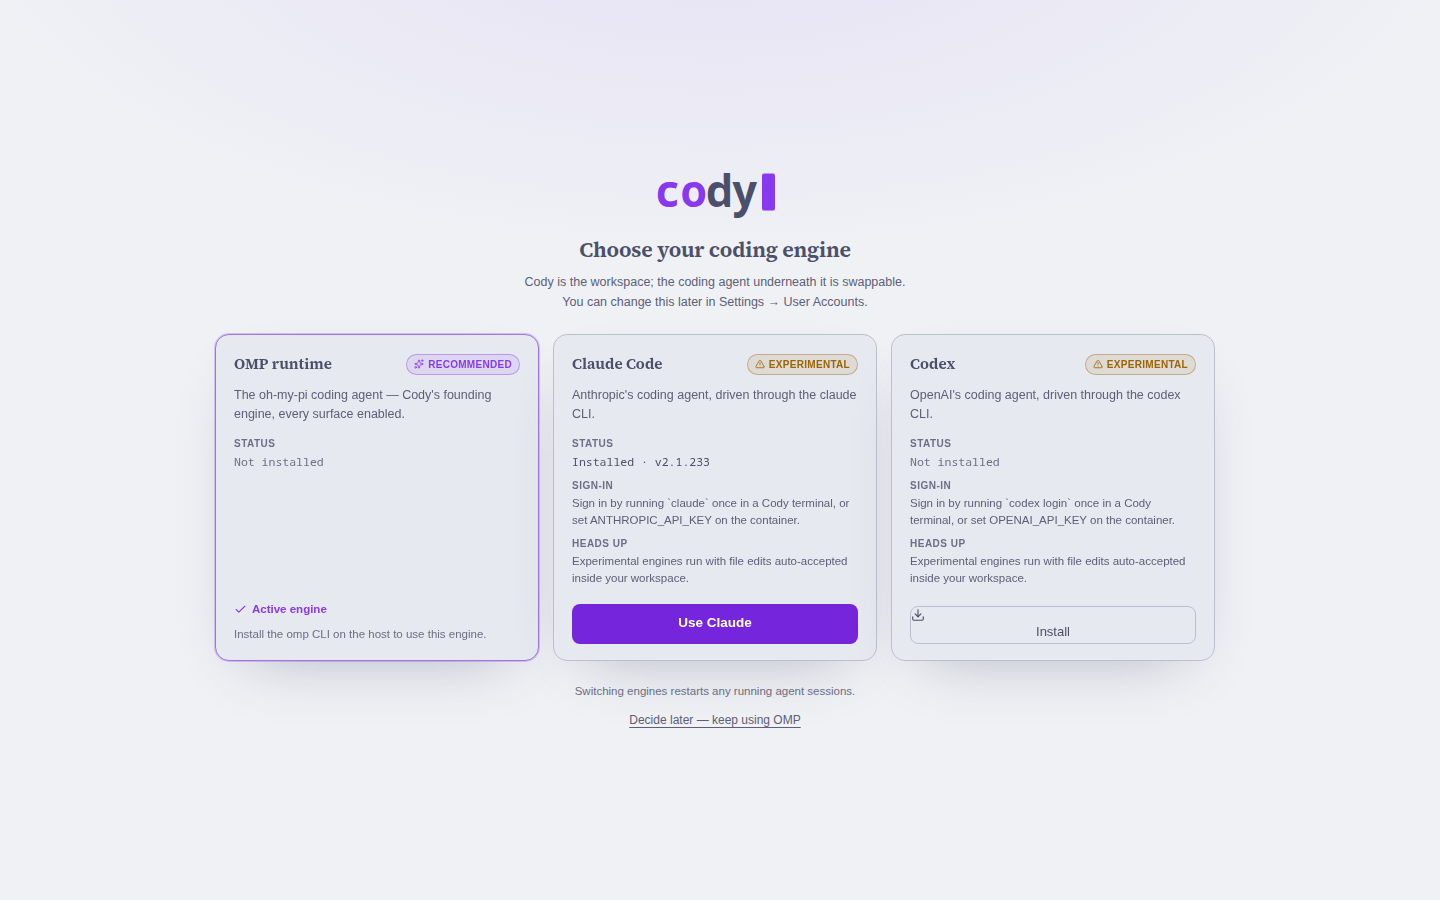
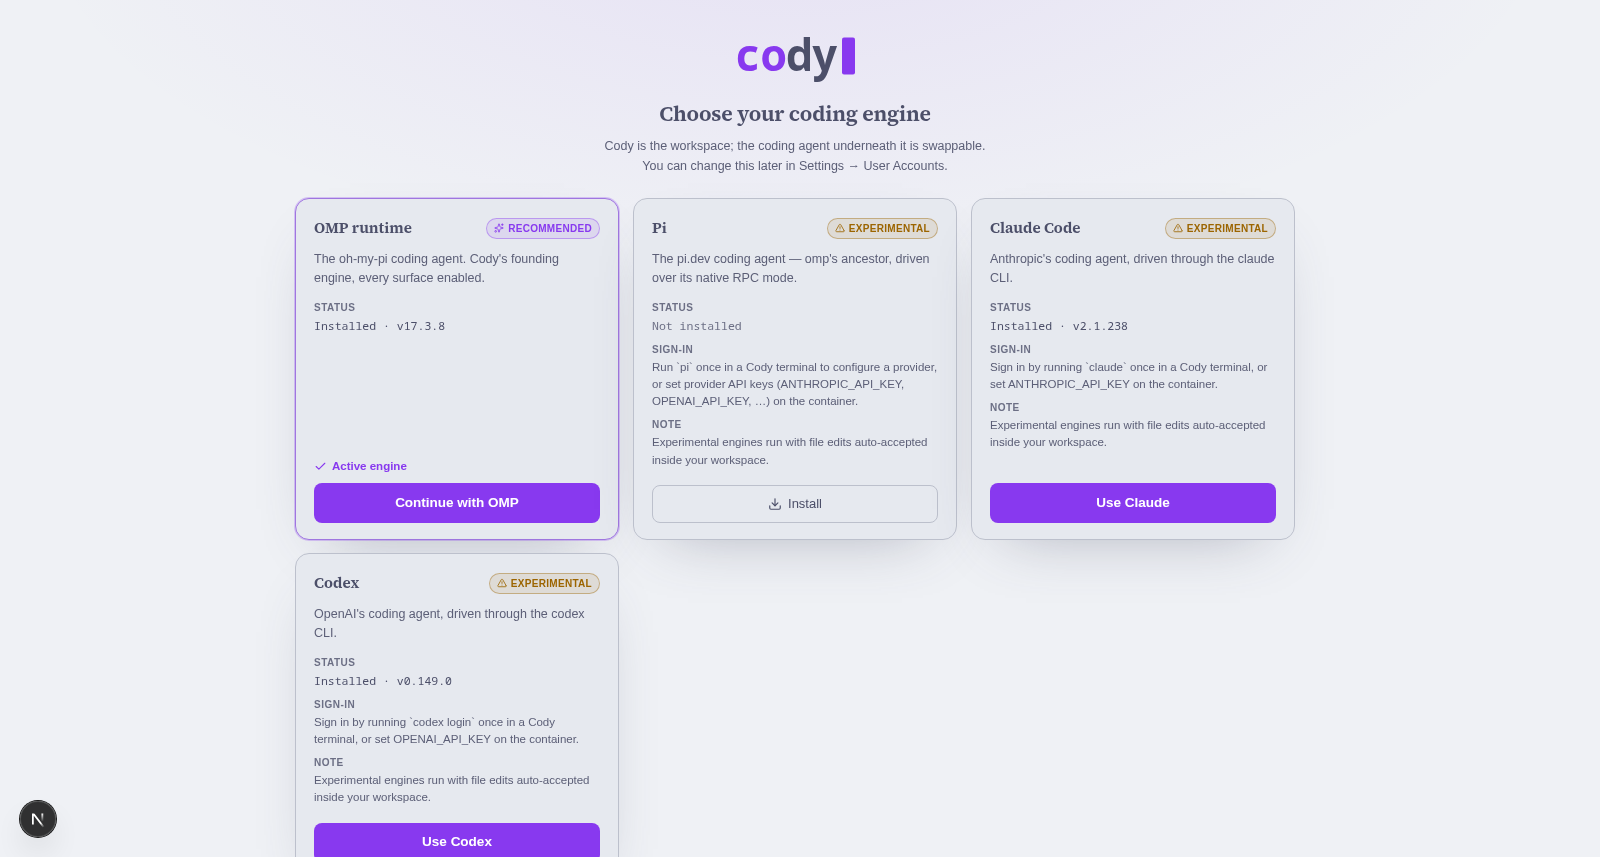
Refresh the README and screenshots for the current engine roster
Pi (pi.dev) joins the engine table, onboarding steps, and intro across all
three README languages; the future-engines list shrinks to Cline and
Cursor. New feature bullets cover the steady streaming cadence with its
tuning playground and the in-app skills.sh store. The screenshots were
still the pre-fork UI — replaced with current captures: the workspace in
light and dark themes and the engine onboarding picker with all four
engines.

diff --git a/README.ja.md b/README.ja.md
@@ -2,7 +2,7 @@
 
 [English](./README.md) | [简体中文](./README.zh-CN.md) | [日本語](./README.ja.md)
 
-Cody はコーディングエージェントのためのセルフホスト型 Web ワークスペースです——**エンジンを差し替えられる**、手元に置いておける IDE です。インターフェース（セッション閲覧、リアルタイムチャット、ファイル、Git、永続ターミナル、タスク、設定）は変わらないまま、その裏で動くコーディングエージェントはオンボーディング時に選び、いつでも入れ替えられます。[oh-my-pi（omp）](https://github.com/can1357/oh-my-pi) が最初からあらゆる機能を備えた基幹エンジンで、**Claude Code** と **Codex** は実験的エンジンとして利用できます。エージェントの進化は速いものです——Cody ならワークスペースを手放さずに中身だけを切り替えられます。
+Cody はコーディングエージェントのためのセルフホスト型 Web ワークスペースです——**エンジンを差し替えられる**、手元に置いておける IDE です。インターフェース（セッション閲覧、リアルタイムチャット、ファイル、Git、永続ターミナル、タスク、設定）は変わらないまま、その裏で動くコーディングエージェントはオンボーディング時に選び、いつでも入れ替えられます。[oh-my-pi（omp）](https://github.com/can1357/oh-my-pi) が最初からあらゆる機能を備えた基幹エンジンで、**Pi**（[pi.dev](https://pi.dev)、omp の前身）、**Claude Code**、**Codex** は実験的エンジンとして利用できます。エージェントの進化は速いものです——Cody ならワークスペースを手放さずに中身だけを切り替えられます。
 
 Cody は [kahme247/ompweb](https://github.com/kahme247/ompweb) のフォークです — [クレジット](#クレジット)を参照してください。
 
@@ -37,7 +37,7 @@ docker run -d -p 30177:30177 \
 続いて WebUI を開きます：
 
 1. **初回起動セットアップ** — インスタンスは最初のリクエストからロックされており、唯一アクセスできるページでアカウント作成の手順が案内されます。このアカウントが管理者になります。パスワード用の環境変数は不要です。
-2. **使用するコーディングエンジンを選択** — omp（推奨）、Claude Code、Codex のいずれかを選びます。Cody は永続的な `/data` の tools プレフィックスにエンジンをインストールし、イメージ更新後も残り、エンジン自体も個別に更新できます。
+2. **使用するコーディングエンジンを選択** — omp（推奨）、Pi、Claude Code、Codex のいずれかを選びます。Cody は永続的な `/data` の tools プレフィックスにエンジンをインストールし、イメージ更新後も残り、エンジン自体も個別に更新できます。
 3. `/workspace/<your-project>` をワークスペースとして追加し、作業を始めます。
 
 Unraid 向けには既製のテンプレートと詳しい手順が [docs/unraid.md](docs/unraid.md) にあります。イメージには日常的な開発ツール（git、`gh`、pip/venv 付きの python3、ripgrep、jq）も含まれており、任意で有効化できる **SSH アクセス** は、有効な場合そのままアクティブなエンジンの CLI に直結します — エンジンを終了すると通常のシェルに戻ります（[SSH](#コンテナへの-ssh-接続) を参照）。
@@ -69,6 +69,7 @@ npm start              # …127.0.0.1:30177 で提供（0.0.0.0 は start:lan）
 | エンジン | ステータス | 使える機能 |
 | --- | --- | --- |
 | **omp**（oh-my-pi） | 基幹エンジン — すべての機能が有効 | フル機能のチャット（思考レベル、フォーク、コンパクション、ステアリング、サブエージェント）、モデル & プロバイダー、スキル、プラグイン、MCP、ネイティブ設定、アップデート |
+| **Pi**（pi.dev） | 実験的 | Pi ネイティブ RPC によるライブチャット——ストリーミング応答、ツールの動作状況、ステアリング、中断。設定画面は Pi が実際に提供する機能のみ表示 |
 | **Claude Code** | 実験的 | シンプルなチャット：プロンプト、ストリーミング応答、ツールの動作状況、中断。関係のない設定は自動的に非表示 |
 | **Codex** | 実験的 | Claude Code と同じシンプルなチャット機能 |
 
@@ -76,7 +77,7 @@ npm start              # …127.0.0.1:30177 で提供（0.0.0.0 は start:lan）
 - **認証情報はエンジンごと**: Cody のターミナルで一度 `claude` または `codex login` を実行するか（状態は `/data/home` に保存されます）、コンテナに `ANTHROPIC_API_KEY` / `OPENAI_API_KEY` を設定します。omp のプロバイダーは設定画面で管理します。
 - **ローカルモデルにも対応**: omp のモデルレジストリはカスタムプロバイダーを受け付け、Codex は `--oss` やカスタムの `model_provider` エンドポイントに対応し、Claude エンジンは `ANTHROPIC_BASE_URL` を尊重します。OpenAI/Anthropic 互換のゲートウェイ（vLLM、Ollama、NVIDIA Switchyard のようなルーティングプロキシなど）であれば、どのエンジンの裏にも接続できます。
 - **機能フラグに応じた UI**: エンジンが対応していない機能は、壊れるのではなく非表示になります — Claude / Codex がアクティブなときは、設定は Cody 独自のタブだけに絞られ、omp 専用のコンポーザー機能は表示されなくなります。
-- **エンジンの追加**: エンジンごとに 1 つのアダプターを用意します。実装すべき契約とチェックリスト（Pi、Cline、Cursor、…）は [docs/harnesses.md](docs/harnesses.md) にあります。
+- **エンジンの追加**: エンジンごとに 1 つのアダプターを用意します。実装すべき契約とチェックリスト（Cline、Cursor、…）は [docs/harnesses.md](docs/harnesses.md) にあります。
 - 実験的エンジンは非対話的に動作し、ワークスペース内のファイル編集は自動承認されます。また、その会話履歴はセッションローカルです（サーバー再起動をまたいだ再生にはまだ対応していません）。
 
 ## ユーザーアカウント
@@ -100,6 +101,8 @@ npm start              # …127.0.0.1:30177 で提供（0.0.0.0 は start:lan）
 - **充実したワークスペースパネル**: ファイル、Git（ステータス、差分、ステージング、コミット）、ターミナル、タスク（`.cody/tasks.json`）、アップデート、情報に加え、ワークスペースのチェックポイントや、切り離し可能な埋め込みアプリプレビューも備えています。
 - **エージェントの成果をその場で確認**: アシスタントがローカル開発サーバーを起動すると、その URL が応答し次第、埋め込みプレビューが自動的に開きます。omp ではエージェントが `open_preview` ツールで明示的に開くこともできます。
 - **エージェントが自分の成果を見る**: `preview_screenshot` ツールがサーバー側のヘッドレス Chromium でアプリを描画するため、モデルは自分が作った画面をスクリーンショットで確認しながら改善できます。スクリーンショットはチャットにそのまま表示され、プレビューパネルのカメラボタンで次のメッセージに添付することもできます。
+- **タイプしているように読めるストリーミング**: 応答はバッファ付きの表示パイプラインを通り、トークンのバーストや停止を均一なリズムに吸収します——ツール呼び出しカードとそのストリーミング入力も同様です。出荷時のデフォルトでそのまま使え、`/dev/stream-tuner` の調整ページで好みに合わせて微調整もできます。
+- **アプリ内でスキルを発見**: 設定から公開レジストリ [skills.sh](https://skills.sh) を検索し、ワークスペースを離れずにプロジェクトまたはユーザースコープへスキルをインストールできます。
 - **セッション状態をひと目で把握**: コンテキスト使用量、コスト、コンパクション状態、システムプロンプトの詳細をトップバーで確認できます（内容はエンジンにより異なります）。
 - **ターミナルに頼らない設定**: モデル、プロバイダー認証、omp のネイティブ制御（アドバイザー、承認、思考、コンパクション、メモリ、リトライ/フォールバック）、スキル、プラグイン、プロジェクト MCP サーバーを、エンジンが対応していればすべて設定画面から管理できます。
 - **アプリ内で最新の状態を保つ**: エンジンのバージョンチェックとワンクリック更新に対応。Cody 自体はコンテナイメージの更新に伴って更新されます。

diff --git a/README.zh-CN.md b/README.zh-CN.md
@@ -2,7 +2,7 @@
 
 [English](./README.md) | [简体中文](./README.zh-CN.md) | [日本語](./README.ja.md)
 
-Cody 是面向编程智能体的自托管 Web 工作区——一个可以长期使用、且**引擎可替换**的 IDE。界面保持不变（会话浏览、实时对话、文件、Git、持久化终端、任务、设置），而底层运行的编程智能体在引导流程中选择，并且可以随时更换：[oh-my-pi（omp）](https://github.com/can1357/oh-my-pi) 是功能最完整的基础引擎；**Claude Code** 和 **Codex** 作为实验性引擎提供。智能体的演进速度很快——Cody 让你在不放弃工作区的前提下切换底层实现。
+Cody 是面向编程智能体的自托管 Web 工作区——一个可以长期使用、且**引擎可替换**的 IDE。界面保持不变（会话浏览、实时对话、文件、Git、持久化终端、任务、设置），而底层运行的编程智能体在引导流程中选择，并且可以随时更换：[oh-my-pi（omp）](https://github.com/can1357/oh-my-pi) 是功能最完整的基础引擎；**Pi**（[pi.dev](https://pi.dev)，omp 的前身）、**Claude Code** 与 **Codex** 作为实验性引擎提供。智能体的演进速度很快——Cody 让你在不放弃工作区的前提下切换底层实现。
 
 Cody 分叉自 [kahme247/ompweb](https://github.com/kahme247/ompweb) —— 参见[致谢](#致谢)。
 
@@ -37,7 +37,7 @@ docker run -d -p 30177:30177 \
 然后打开 WebUI：
 
 1. **首次运行设置** — 实例从第一个请求开始就处于锁定状态，唯一可访问的页面会引导你创建账户，该账户将成为管理员。无需设置任何密码变量。
-2. **选择你的编程引擎** — 在 omp（推荐）、Claude Code、Codex 中选择。Cody 会将其安装到持久化的 `/data` 工具前缀目录中，该目录在镜像更新后依然保留，引擎本身也可独立更新。
+2. **选择你的编程引擎** — 在 omp（推荐）、Pi、Claude Code、Codex 中选择。Cody 会将其安装到持久化的 `/data` 工具前缀目录中，该目录在镜像更新后依然保留，引擎本身也可独立更新。
 3. 将 `/workspace/<your-project>` 添加为工作区，即可开始工作。
 
 针对 Unraid，[docs/unraid.md](docs/unraid.md) 中提供了现成的模板和完整的操作步骤。镜像还内置了常用开发工具（git、`gh`、带 pip/venv 的 python3、ripgrep、jq），以及可选的 **SSH 访问**，登录后会直接进入当前活动引擎的 CLI —— 退出引擎后即回到普通 shell（参见[SSH](#通过-ssh-连接容器)）。
@@ -69,6 +69,7 @@ npm start              # …在 127.0.0.1:30177 提供服务（0.0.0.0 用 start
 | 引擎 | 状态 | 可用功能 |
 | --- | --- | --- |
 | **omp**（oh-my-pi） | 基础引擎 —— 全部功能均已启用 | 完整对话功能（思考层级、分叉、上下文压缩、引导、子智能体）、模型与提供方、技能、插件、MCP、原生设置、更新 |
+| **Pi**（pi.dev） | 实验性 | 通过 Pi 原生 RPC 的实时对话——流式回复、工具活动、引导、中止；设置界面仅显示 Pi 实际支持的能力 |
 | **Claude Code** | 实验性 | 简洁对话：提示词、流式回复、工具活动、中止。不相关的设置会自动隐藏 |
 | **Codex** | 实验性 | 与 Claude Code 相同的简洁对话界面 |
 
@@ -76,7 +77,7 @@ npm start              # …在 127.0.0.1:30177 提供服务（0.0.0.0 用 start
 - **凭证归各引擎自己管理**：在 Cody 终端中运行一次 `claude` 或 `codex login`（状态会保存在 `/data/home` 中），或在容器上设置 `ANTHROPIC_API_KEY` / `OPENAI_API_KEY`。omp 的提供方在设置中管理。
 - **本地模型同样可用**：omp 的模型注册表支持自定义提供方；Codex 支持 `--oss` 或自定义的 `model_provider` 端点；Claude 引擎遵循 `ANTHROPIC_BASE_URL`。任何 OpenAI/Anthropic 兼容的网关（vLLM、Ollama，或是 NVIDIA Switchyard 这类路由代理）都可以接入你所运行的任意引擎。
 - **按能力显示的 UI**：引擎无法提供的界面会被隐藏，而不是显示为损坏状态 —— 切换到 Claude/Codex 时，设置会收起为 Cody 自身的标签页，仅限 omp 的输入框控件也会消失。
-- **添加新引擎**：每个引擎对应一个适配器。所需实现的约定与检查清单（Pi、Cline、Cursor 等）见 [docs/harnesses.md](docs/harnesses.md)。
+- **添加新引擎**：每个引擎对应一个适配器。所需实现的约定与检查清单（Cline、Cursor 等）见 [docs/harnesses.md](docs/harnesses.md)。
 - 实验性引擎以非交互方式运行，工作区内的文件编辑会被自动接受；它们的会话记录仅保存在当前会话中（目前还不支持跨服务器重启回放）。
 
 ## 用户账户
@@ -100,6 +101,8 @@ npm start              # …在 127.0.0.1:30177 提供服务（0.0.0.0 用 start
 - **完整的工作区面板**：文件、Git（状态、差异、暂存、提交）、终端、任务（`.cody/tasks.json`）、更新、信息，此外还有工作区检查点和可分离的内嵌应用预览。
 - **实时查看智能体的成果**：助手启动本地开发服务器后，只要其 URL 有响应，内嵌预览就会自动打开；在 omp 上，智能体还可以通过 `open_preview` 工具主动打开它。
 - **智能体能看到自己的成果**：`preview_screenshot` 工具在服务器端用内置的无头 Chromium 渲染应用，模型可以截图查看自己构建的界面并持续改进——截图会直接显示在聊天中，预览面板上的相机按钮还能把截图添加到你的下一条消息。
+- **流式输出如打字般顺滑**：回复经过带缓冲的渐显管线渲染，将令牌的突发与停顿吸收为均匀的显示节奏——工具调用卡片及其流式输入同样如此——默认参数开箱即用，还可在 `/dev/stream-tuner` 调校页中微调手感。
+- **应用内发现技能**：在设置中搜索公共 [skills.sh](https://skills.sh) 技能仓库，并将技能安装到项目或用户范围，无需离开工作区。
 - **清晰掌握会话状态**：上下文用量、费用、压缩状态和系统提示词详情都显示在顶栏（具体内容取决于引擎）。
 - **减少对终端配置的依赖**：模型、提供方认证、omp 的原生控制项（顾问、审批、思考、压缩、记忆、重试/回退）、技能、插件和项目 MCP 服务器，只要引擎支持，都可以在设置中管理。
 - **在应用内保持最新**：支持引擎的版本检查和一键更新；Cody 本身则随容器镜像一同更新。

diff --git a/README.md b/README.md
@@ -2,7 +2,7 @@
 
 [English](./README.md) | [简体中文](./README.zh-CN.md) | [日本語](./README.ja.md)
 
-Cody is a self-hosted web workspace for coding agents — an IDE you keep, with an **engine you can swap**. The interface stays constant (session browsing, real-time chat, files, git, persistent terminals, tasks, settings) while the coding agent underneath is chosen at onboarding and can be replaced any time: [oh-my-pi (omp)](https://github.com/can1357/oh-my-pi) is the founding, fully-featured engine; **Claude Code** and **Codex** are available as experimental engines. Agents evolve fast — Cody lets you switch the internals without giving up your workspace.
+Cody is a self-hosted web workspace for coding agents — an IDE you keep, with an **engine you can swap**. The interface stays constant (session browsing, real-time chat, files, git, persistent terminals, tasks, settings) while the coding agent underneath is chosen at onboarding and can be replaced any time: [oh-my-pi (omp)](https://github.com/can1357/oh-my-pi) is the founding, fully-featured engine; **Pi** ([pi.dev](https://pi.dev), omp's ancestor), **Claude Code** and **Codex** are available as experimental engines. Agents evolve fast — Cody lets you switch the internals without giving up your workspace.
 
 Cody is a fork of [kahme247/ompweb](https://github.com/kahme247/ompweb) — see [Credits](#credits).
 
@@ -42,8 +42,8 @@ Then open the WebUI:
 1. **First-run setup** — the instance is locked from its very first request;
    the only reachable page walks you through creating your account, which
    becomes the administrator. No password variables needed.
-2. **Choose your coding engine** — pick omp (recommended), Claude Code, or
-   Codex. Cody installs it into the persistent `/data` tools prefix, where it
+2. **Choose your coding engine** — pick omp (recommended), Pi, Claude Code,
+   or Codex. Cody installs it into the persistent `/data` tools prefix, where it
    survives image updates and updates independently.
 3. Add `/workspace/<your-project>` as a workspace and start working.
 
@@ -89,6 +89,7 @@ NVIDIA GPU is optional, for local models running inside the distro.
 | Engine | Status | What you get |
 | --- | --- | --- |
 | **omp** (oh-my-pi) | Founding engine — every surface enabled | Full chat (thinking levels, forking, compaction, steering, subagents), models & providers, skills, plugins, MCP, native settings, updates |
+| **Pi** (pi.dev) | Experimental | Live chat over Pi's native RPC — streamed replies, tool activity, steering, aborts; settings surfaces fit to what Pi actually serves |
 | **Claude Code** | Experimental | Plain chat: prompt, streamed reply, tool activity, abort. Non-relevant settings hide automatically |
 | **Codex** | Experimental | Same plain-chat surface as Claude Code |
 
@@ -110,7 +111,7 @@ NVIDIA GPU is optional, for local models running inside the distro.
   broken — with Claude/Codex active, settings collapse to Cody's own tabs
   and omp-only composer controls disappear.
 - **Adding engines**: one adapter per engine. The contract and checklist
-  (Pi, Cline, Cursor, …) live in [docs/harnesses.md](docs/harnesses.md).
+  (Cline, Cursor, …) live in [docs/harnesses.md](docs/harnesses.md).
 - Experimental engines run non-interactively with file edits auto-accepted
   inside the workspace, and their transcript history is session-local (no
   replay across server restarts yet).
@@ -154,8 +155,10 @@ updates.
 - **See what the agent builds, live**: when the assistant starts a local dev server, the embedded preview opens automatically once its URL answers — and on omp the agent can open it deliberately with the `open_preview` tool.
 - **The agent sees its own work**: a `preview_screenshot` tool renders the app in a bundled headless Chromium on the server, so the model can screenshot what it built, look at the image, and iterate — the screenshot shows up right in the chat, and a camera button on the Preview panel attaches one to your next message.
 - **The agent reads its app's console**: the preview Chromium's uncaught exceptions, `console.error` output, failed fetches and 4xx/5xx responses are captured into a bounded per-session ring, and a `read_app_logs` tool hands the model a deduped digest — a render loop logging thousands of identical lines arrives as one entry with a count. When something new breaks, a single line is appended to the next preview tool result rather than streaming logs into the conversation.
+- **Streaming that reads like typing, not teleporting**: replies render through a buffered reveal that absorbs token bursts and stalls into a steady cadence — tool-call boxes and their streaming input included — with shipped defaults and a `/dev/stream-tuner` playground for retuning the feel.
 - **See session state clearly**: context usage, cost, compaction state, and system prompt details in the top bar (engine-dependent), plus an icon-only context ring in the composer that shifts color as usage crosses thresholds and clicks open to a compact summary of used/available/limit, token traffic, and models used.
 - **Configure less from the terminal**: models, provider auth, native omp controls (advisor, approvals, thinking, compaction, memory, retry/fallback), skills, plugins, and project MCP servers — all from Settings when the engine supports them.
+- **Discover skills in-app**: search the public [skills.sh](https://skills.sh) registry from Settings and install skills into your project or user scope without leaving the workspace.
 - **Stay current in-app**: version checks and one-click updates for the engine; Cody itself updates with the container image.
 - **Stay informed**: browser notifications when an agent finishes; skill update checks.
 - **Jump anywhere with ⌘K**: a command palette for switching sessions, starting new ones, and toggling the theme.
